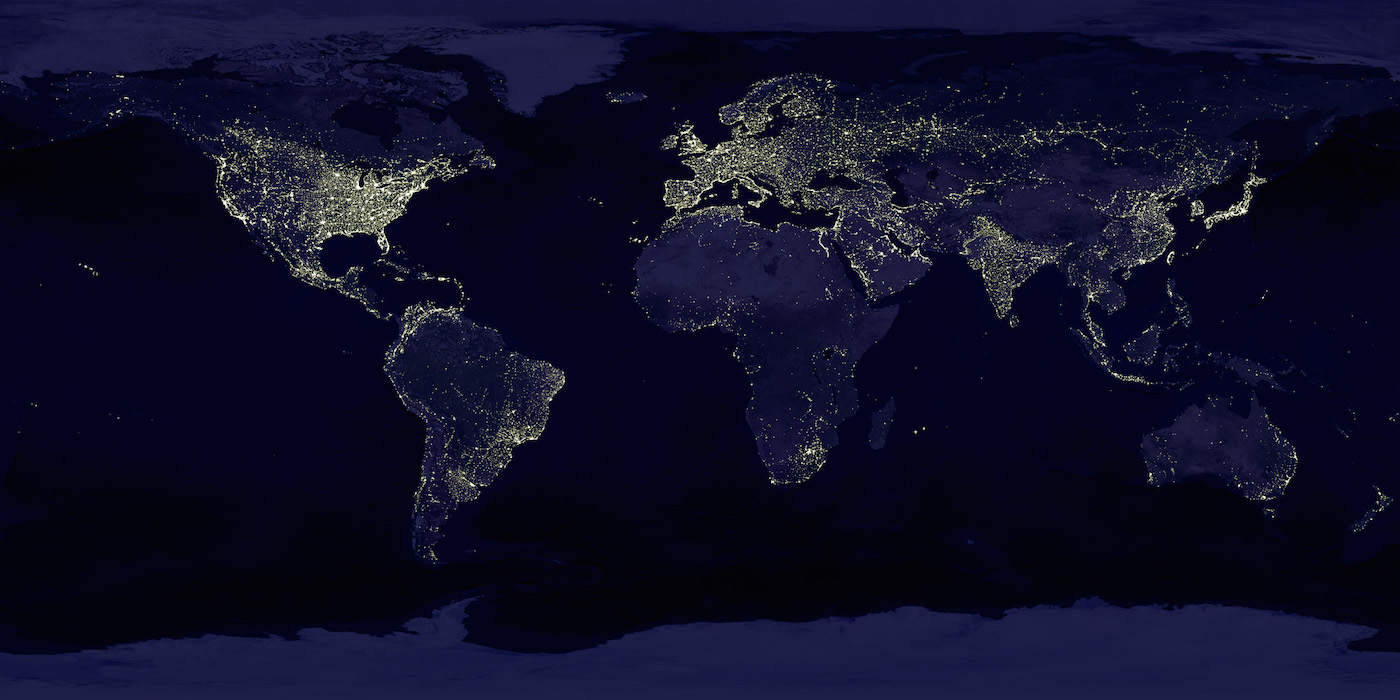
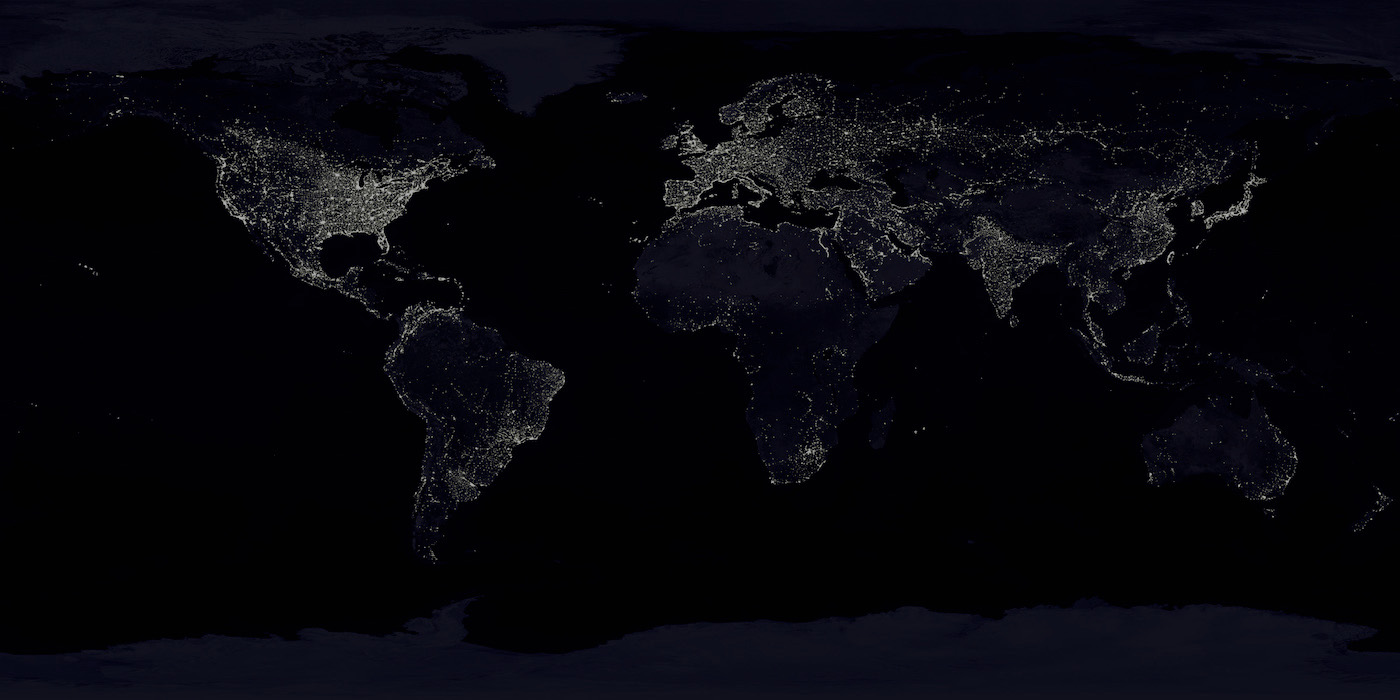
9th draft

diff --git a/index.html b/index.html
@@ -170,11 +170,19 @@
   .overview-container {
     background: url(./images/earth_lights_lrg.jpg);
     background-size: 100%;
+    background-repeat: no-repeat;
+    background-attachment: fixed;
+    background-position: top; 
+    background-color: rgba(0,0,0,0.9);
 
     color: #FFFFFF;
     text-align: center;
-    font-size: 150%;
-    line-height: 240%;
+    line-height: 150%;
+    text-transform: uppercase;
+    margin: 0 0 10px;
+    font-weight: 100;
+    font-size: 30px;
+    background-color: rgba(0,0,0,0.9);
 
     padding-top: 125px;
     padding-right: 80px;
@@ -186,6 +194,9 @@
   .experience-container {
     background: url(./images/london-bigben.jpg);
     background-size: 100%;
+    background-repeat: no-repeat;
+    background-attachment: fixed;
+    background-position: center; 
 
     color: #222;
 
@@ -198,14 +209,19 @@
   .experience-container h2 {
     color: #FFFFFF;
     text-shadow: 1px 1px 1px #000;
+    text-transform: uppercase;
   }
 
 
   .publications-container {
     background: url(./images/background-lion.jpg);
     background-size: 100%;
+    background-repeat: no-repeat;
+    background-attachment: fixed;
+    background-position: top; 
 
-    color: #FFFFFF;
+
+    color: #999;
     text-align: right;
     font-size: 100%;
     line-height: 240%;
@@ -216,12 +232,22 @@
     padding-left: 80px;
   }
 
+  .publications-container h2 {
+    color: #999;
+    text-transform: uppercase;
+  }
+
+
 
   .contact-container {
-    background: url(./images/city-of-london.jpg);
+    background: url(./images/london-eye.jpg);
     background-size: 100%;
+    background-repeat: no-repeat;
+    background-attachment: fixed;
+    background-position: center; 
 
     color: #FFFFFF;
+    text-shadow: 1px 1px 1px #000;
     text-align: left;
     font-size: 150%;
     line-height: 140%;
@@ -233,11 +259,22 @@
   }
 
 
+  #Contact a {
+    color: white;
+    text-shadow: 1px 1px 1px #000;
+  }
+
+
   .ui-accordion-content, .ui-accordion-content p {
     background-color: rgba(0,0,0,0.1);
     background: inherit;
     color: white;
   }
+
+.fa {
+  color: white;
+  text-shadow: 1px 1px 1px #000;
+}
 
   </style>
 
@@ -452,7 +489,7 @@
   <div class="contact-container" id="contact-container-id">
     <div class="container">
       <div class="row" id="contact-row">
-        <div class="col-md-12">
+        <div class="col-md-11 col-md-offset-1">
 
           <div id="Contact">
             <h2>Contact</h2>
